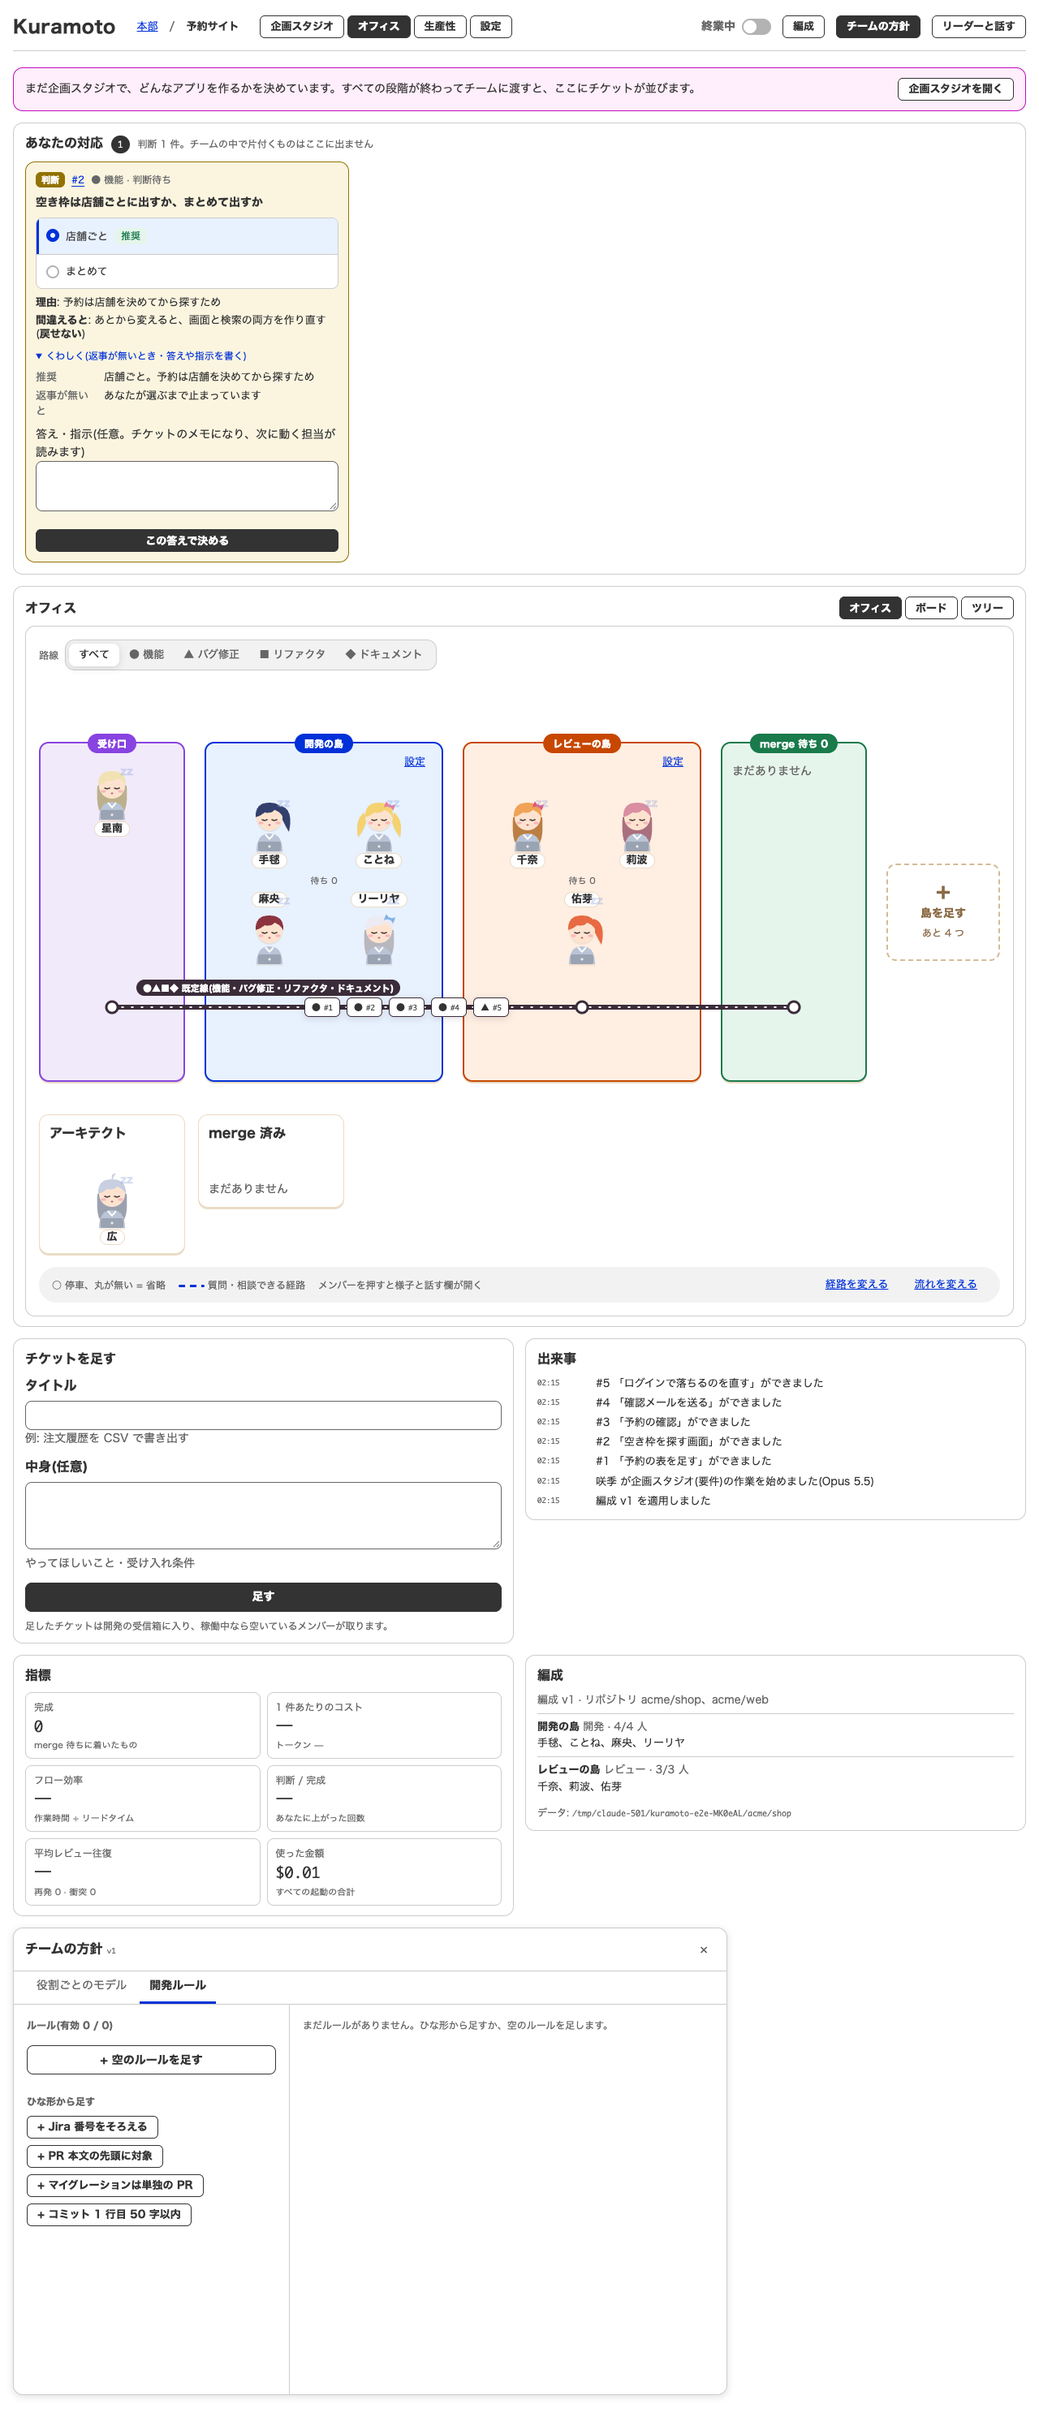
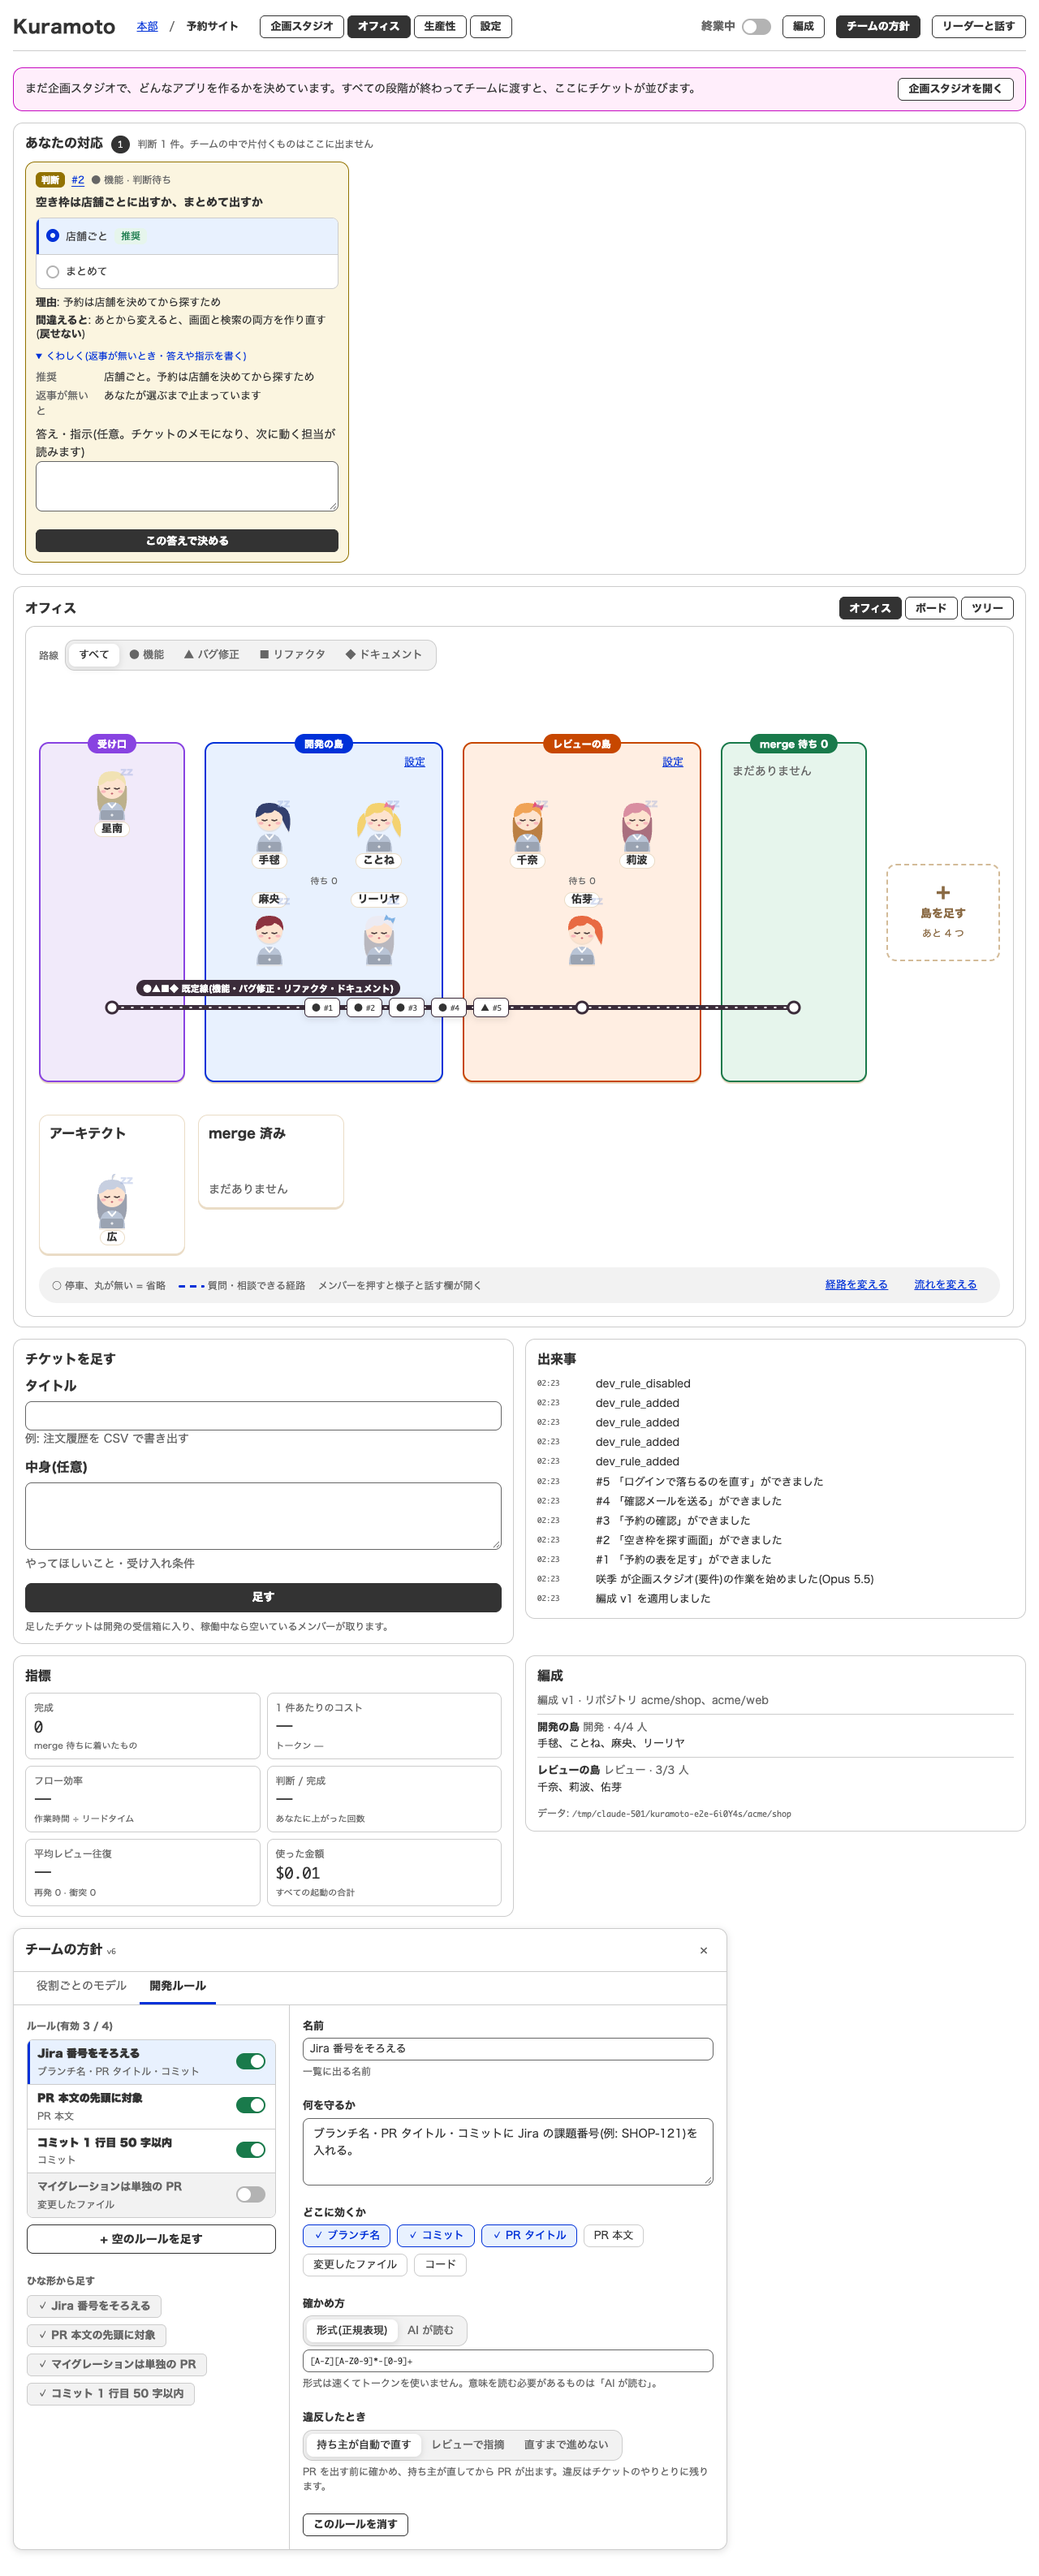
[fix] レビュー対応: 生産性・ツリー・連絡経路の 390px を撮り足し、開発ルールの撮影データと URL 指定の 1 回きりを足す(#80)
- docs/screenshots/80 に、生産性・ツリー・編成の連絡経路の 390px の直す前/直した後を足す
- e2e/screens.ts に開発ルール 4 件を足し、開発ルールの画像を撮り直す
- ?drawer= の指定は、引き出しを開け閉めしたら捨てる
- 種類の切り替えの字を試作と変えていない理由を README に書く

diff --git a/e2e/screens.ts b/e2e/screens.ts
@@ -1,8 +1,8 @@
 /**
  * 画面の見た目を撮り直すためのフェイクのデータ(E2E_SCREENS=1 で e2e/server.ts が使う)。
- * プロジェクトとチケット 5 件を API で作り、ツリー・ボードに出る 5 つの状態(作業中・あなたの番・止まっている・待ち・手すき)は
+ * プロジェクトとチケット 5 件・開発ルール 4 件を API で作り、ツリー・ボードに出る 5 つの状態(作業中・あなたの番・止まっている・待ち・手すき)は
  * 画面データ(GET /api/projects/:id)の tickets を差し替えて作る。担当を動かさずに、いつでも同じ絵を撮れる。
- * 撮り方は docs/screenshots/78/README.md。
+ * 撮り方は docs/screenshots/80/README.md。
  */
 import type { ProjectView } from "../src/server.js";
 
@@ -28,6 +28,11 @@ export async function seedScreens(base: string): Promise<number> {
   const { id } = await post(base, "/api/projects", { name: "予約サイト", repos: [{ fullName: "acme/shop", role: "API" }, { fullName: "acme/web", role: "フロント" }] });
   if (id === undefined) throw new Error("プロジェクトを作れませんでした");
   for (const t of TICKETS) await post(base, `/api/projects/${id}/tickets`, t);
+  // 開発ルール(R15): 試作と同じ 4 件(ひな形)。4 つ目は無効にして、「押せない」見た目も撮れるようにする
+  for (const template of ["jira", "pr-body-target", "commit-50", "migration-alone"]) await post(base, `/api/projects/${id}/dev-rules`, { template });
+  const rules = (await (await fetch(`${base}/api/projects/${id}/dev-rules`)).json()) as { rules: { id: number; template: string | null }[] };
+  const off = rules.rules.find((r) => r.template === "migration-alone");
+  if (off) await post(base, `/api/projects/${id}/dev-rules/${off.id}/enabled`, { enabled: false });
   return id;
 }
 

diff --git a/src/phone-drawer.test.ts b/src/phone-drawer.test.ts
@@ -1,6 +1,6 @@
 import { readFileSync } from "node:fs";
 import { describe, expect, it } from "vitest";
-import { initialDrawer } from "../ui/src/phoneNav";
+import { clearDrawerFromUrl, drawerFromUrl, initialDrawer } from "../ui/src/phoneNav";
 
 // 編成・チームの方針の引き出しは、URL の ?drawer=&dtab= で開いた状態にできる(撮影・共有用)。
 describe("initialDrawer", () => {
@@ -16,6 +16,14 @@ describe("initialDrawer", () => {
 
   it("知らない引き出しは閉じたままにする", () => {
     expect(initialDrawer("?drawer=x&dtab=y")).toEqual({ drawer: null, tab: "y" });
+  });
+});
+
+// URL の指定は開いた直後の 1 回だけ。引き出しを開け閉めしたら、次からは使わない。
+describe("drawerFromUrl", () => {
+  it("clearDrawerFromUrl のあとは、何も指定されていない", () => {
+    clearDrawerFromUrl();
+    expect(drawerFromUrl()).toEqual({ drawer: null, tab: null });
   });
 });
 

diff --git a/ui/src/phoneNav.ts b/ui/src/phoneNav.ts
@@ -46,4 +46,12 @@ export function initialDrawer(search: string): { drawer: "formation" | "policy" 
   return { drawer: d === "formation" || d === "policy" || d === "lead" ? d : null, tab: q.get("dtab") };
 }
 
-export const drawerFromUrl = () => initialDrawer(typeof location === "undefined" ? "" : location.search);
+/**
+ * URL の指定は、開いた直後の 1 回だけ使う。引き出しを開け閉めしたら捨てる(clearDrawerFromUrl)ので、
+ * 閉じて開き直したときに毎回同じタブから始まることは無い(読み込み直すと、URL がまた使われる)。
+ */
+let fromUrl = initialDrawer(typeof location === "undefined" ? "" : location.search);
+export const drawerFromUrl = () => fromUrl;
+export const clearDrawerFromUrl = () => {
+  fromUrl = { drawer: null, tab: null };
+};

diff --git a/ui/src/Team.tsx b/ui/src/Team.tsx
@@ -6,7 +6,7 @@ import { MAX_MEMBERS_PER_UNIT, type FormationSpec, type UnitSpec } from "../../s
 import { EFFORTS, MODELS, ROLE_LABEL, WORK_ROLES, type WorkRole } from "../../src/domain/roles";
 import { Btn } from "./ui";
 import { LeadChat } from "./LeadChat";
-import { drawerFromUrl } from "./phoneNav";
+import { clearDrawerFromUrl, drawerFromUrl } from "./phoneNav";
 import { FormationDrawer } from "./Formation";
 import { Button, Checkbox, Input, Select, Textarea } from "./ds";
 import { BudgetInput } from "./BudgetInput";
@@ -58,6 +58,7 @@ export function useDrawerState(projectId: number | null): { drawer: Drawer | nul
     }
   }
   const open = (to: Drawer | null) => {
+    clearDrawerFromUrl();
     setPending(null);
     if (to !== "policy") setDraft(null);
     setDrawer(to);
